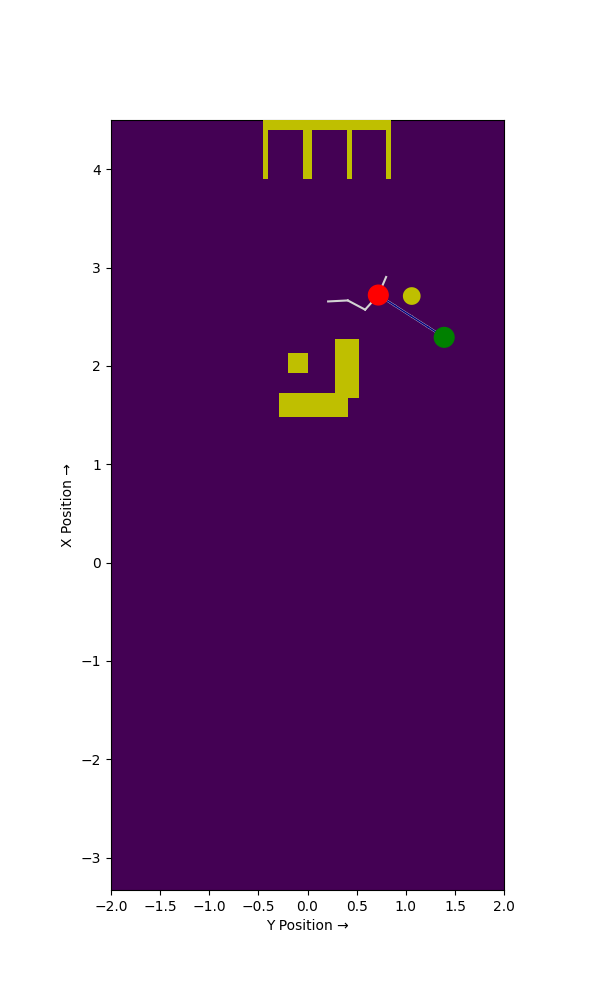
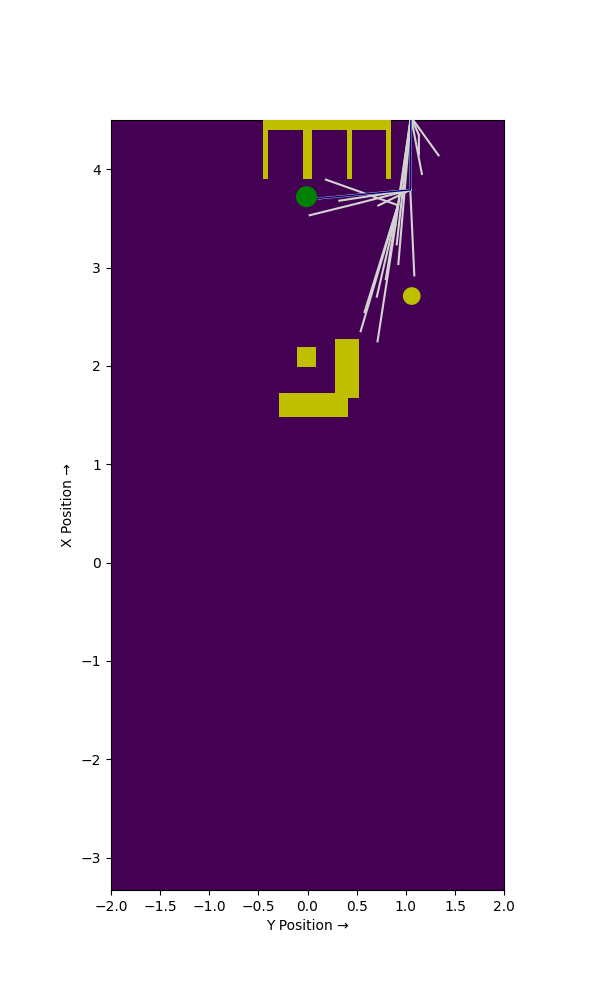
made the UI

Changed region(s): [[0.48, 0.124, 0.72, 0.341], [0.69, 0.31, 0.75, 0.372], [0.48, 0.341, 0.54, 0.372]]

diff --git a/our_code/my_app.py b/our_code/my_app.py
@@ -77,30 +77,93 @@
 
 
 
-
 import streamlit as st
+import subprocess
+from PIL import Image
 
+# Initialize session state
+if "word" not in st.session_state:
+    st.session_state.word = ""
+if "clicked_i" not in st.session_state:
+    st.session_state.clicked_i = False
+if "clicked_o" not in st.session_state:
+    st.session_state.clicked_o = False
+if "clicked_t" not in st.session_state:
+    st.session_state.clicked_t = False
+if "clicked_submit" not in st.session_state:
+    st.session_state.clicked_submit = True
+if "output_placeholder" not in st.session_state:
+    st.session_state.output_placeholder = None
+if "error_placeholder" not in st.session_state:
+    st.session_state.error_placeholder = None
+
+# Function to check if the word is a permutation of "IOT"
 def are_permutations(str2):
-    return sorted('iot') == sorted(str2)
+    return sorted('IOT') == sorted(str2)
 
-# Title of the app
+# Callback functions for each letter
+def click_i():
+    st.session_state.word += 'I'
+    st.session_state.clicked_i = True
+
+def click_o():
+    st.session_state.word += 'O'
+    st.session_state.clicked_o = True
+
+def click_t():
+    st.session_state.word += 'T'
+    st.session_state.clicked_t = True
+
+# Reset everything
+def reset_all():
+    st.session_state.word = ""
+    st.session_state.clicked_i = False
+    st.session_state.clicked_o = False
+    st.session_state.clicked_t = False
+
+# Title
 st.title('Simple Streamlit Example')
 
-# Ask for the user's name
-# word = st.text_input('Enter a word to assemble:')
-word = ""
-st.write(f'The assembled word is: {word}')
-if st.button('I'):
-    word += 'i'
-if st.button('O'):
-    word += 'o' 
-if st.button('T'):  
-    word += 't'
-# Display a greeting if the user has entered their name
-if word:
-    if are_permutations(word):
-        st.write(f'Hello, {word}! Welcome to Streamlit!')
+# Display current assembled word
+
+st.write("Current assembled word:")
+st.info(f'{st.session_state.word}')
+image = Image.open("./map-RRT1.png")
+# Buttons to assemble the word
+left, middle, right = st.columns(3)
+left.button("I", on_click=click_i, disabled=st.session_state.clicked_i, use_container_width=True)
+middle.button("O", on_click=click_o, disabled=st.session_state.clicked_o, use_container_width=True)
+right.button("T", on_click=click_t, disabled=st.session_state.clicked_t, use_container_width=True)
+
+st.session_state.clicked_submit = not (st.session_state.clicked_i and st.session_state.clicked_o and st.session_state.clicked_t)
+# Submit and Reset buttons
+submit_col, reset_col = st.columns(2)
+if submit_col.button("Submit", disabled=st.session_state.clicked_submit):
+    if are_permutations(st.session_state.word):
+        st.success(f'Assembling the word: {st.session_state.word}!')
+        process = subprocess.Popen(
+            ['python', 'our_code/my_script.py', st.session_state.word],
+            stdout=subprocess.PIPE,
+            stderr=subprocess.PIPE,
+            text=True,
+            bufsize=1,  # Line-buffered output
+            universal_newlines=True
+        )
+    
+        for line in process.stdout:
+            st.session_state.output_placeholder = line.strip() # Show each new line of output
+            if st.session_state.output_placeholder:
+                st.image(st.session_state.output_placeholder, caption="This is my picture")
+        # Check if there were any errors
+        stderr = process.stderr.read()
+        if stderr:
+            st.session_state.error_placeholder.text(f"Error: {stderr}")
+
     else:
-        st.write("The robot can't assemble such a word.")
-else:
-    st.write('Hello! Please enter your name.')
+        st.error("The robot can't assemble such a word.")
+
+reset_col.button("Reset", on_click=reset_all)
+
+# Optional: Give hint when nothing is submitted
+if not st.session_state.word:
+    st.info("Hello! Please enter your word by picking the letters.")

diff --git a/our_code/my_script.py b/our_code/my_script.py
@@ -3,9 +3,10 @@ import time
 import sys
 
 def run_code():
-    for i in range(10):
-        print(f"Processing step {i + 1}...")
+    word = sys.argv[1]
+    for i in range(3):
+        print(f"map-RRT{i + 1}.png")
         sys.stdout.flush()  # Ensure the output is flushed to the terminal
-        time.sleep(1)  # Simulating a time-consuming task
+        time.sleep(3)  # Simulating a time-consuming task
 
 run_code()
